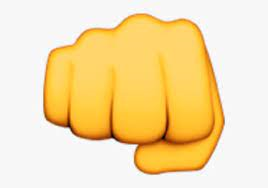
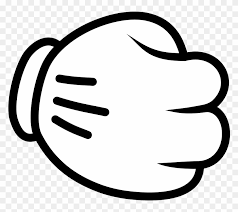
Added images instead of buttons and styled them

diff --git a/style.css b/style.css
@@ -1,6 +1,12 @@
 body
 {
-    background-color: rgb(2, 2, 17)
+    background-color:rgb(105, 17, 17)
+}
+h1
+{
+color: white;
+font-family: Arial, Helvetica, sans-serif;
+text-align: center;
 }
 p
 {
@@ -13,7 +19,18 @@ div
 text-align: center;
 margin-top: 50px;
 }
-button
-{
-margin: 10px;
+button{
+    padding: 10px;
+    border: none;
+    background-color: transparent;
+}
+img{
+    width: 180px;
+    height: 180px;
+    padding: 0px;
+    border: 3px solid; 
+    border-radius: 100px;
+    mix-blend-mode: multiply;
+    filter: contrast(3);
+    
 }

diff --git a/index.html b/index.html
@@ -8,11 +8,11 @@
     <title>Rock-Paper-Scissors Game</title>
 </head>
 <body>
-<p>Choose You're Move!</p>
+<h1>Choose You're Move!</h1>
 <div>
-    <button class="rock">ROCK</button>
-    <button class="paper">PAPER</button>
-    <button class="scissors">SCISSORS</button>
+    <button class="rock"><img src="images/rock.png" alt="ROCK"></button>
+    <button class="paper"><img src="images/paper.png" alt=""></button>
+    <button class="scissors"><img src="images/scissors.png" alt=""></button>
 </div>
 <div id="choices">
 
